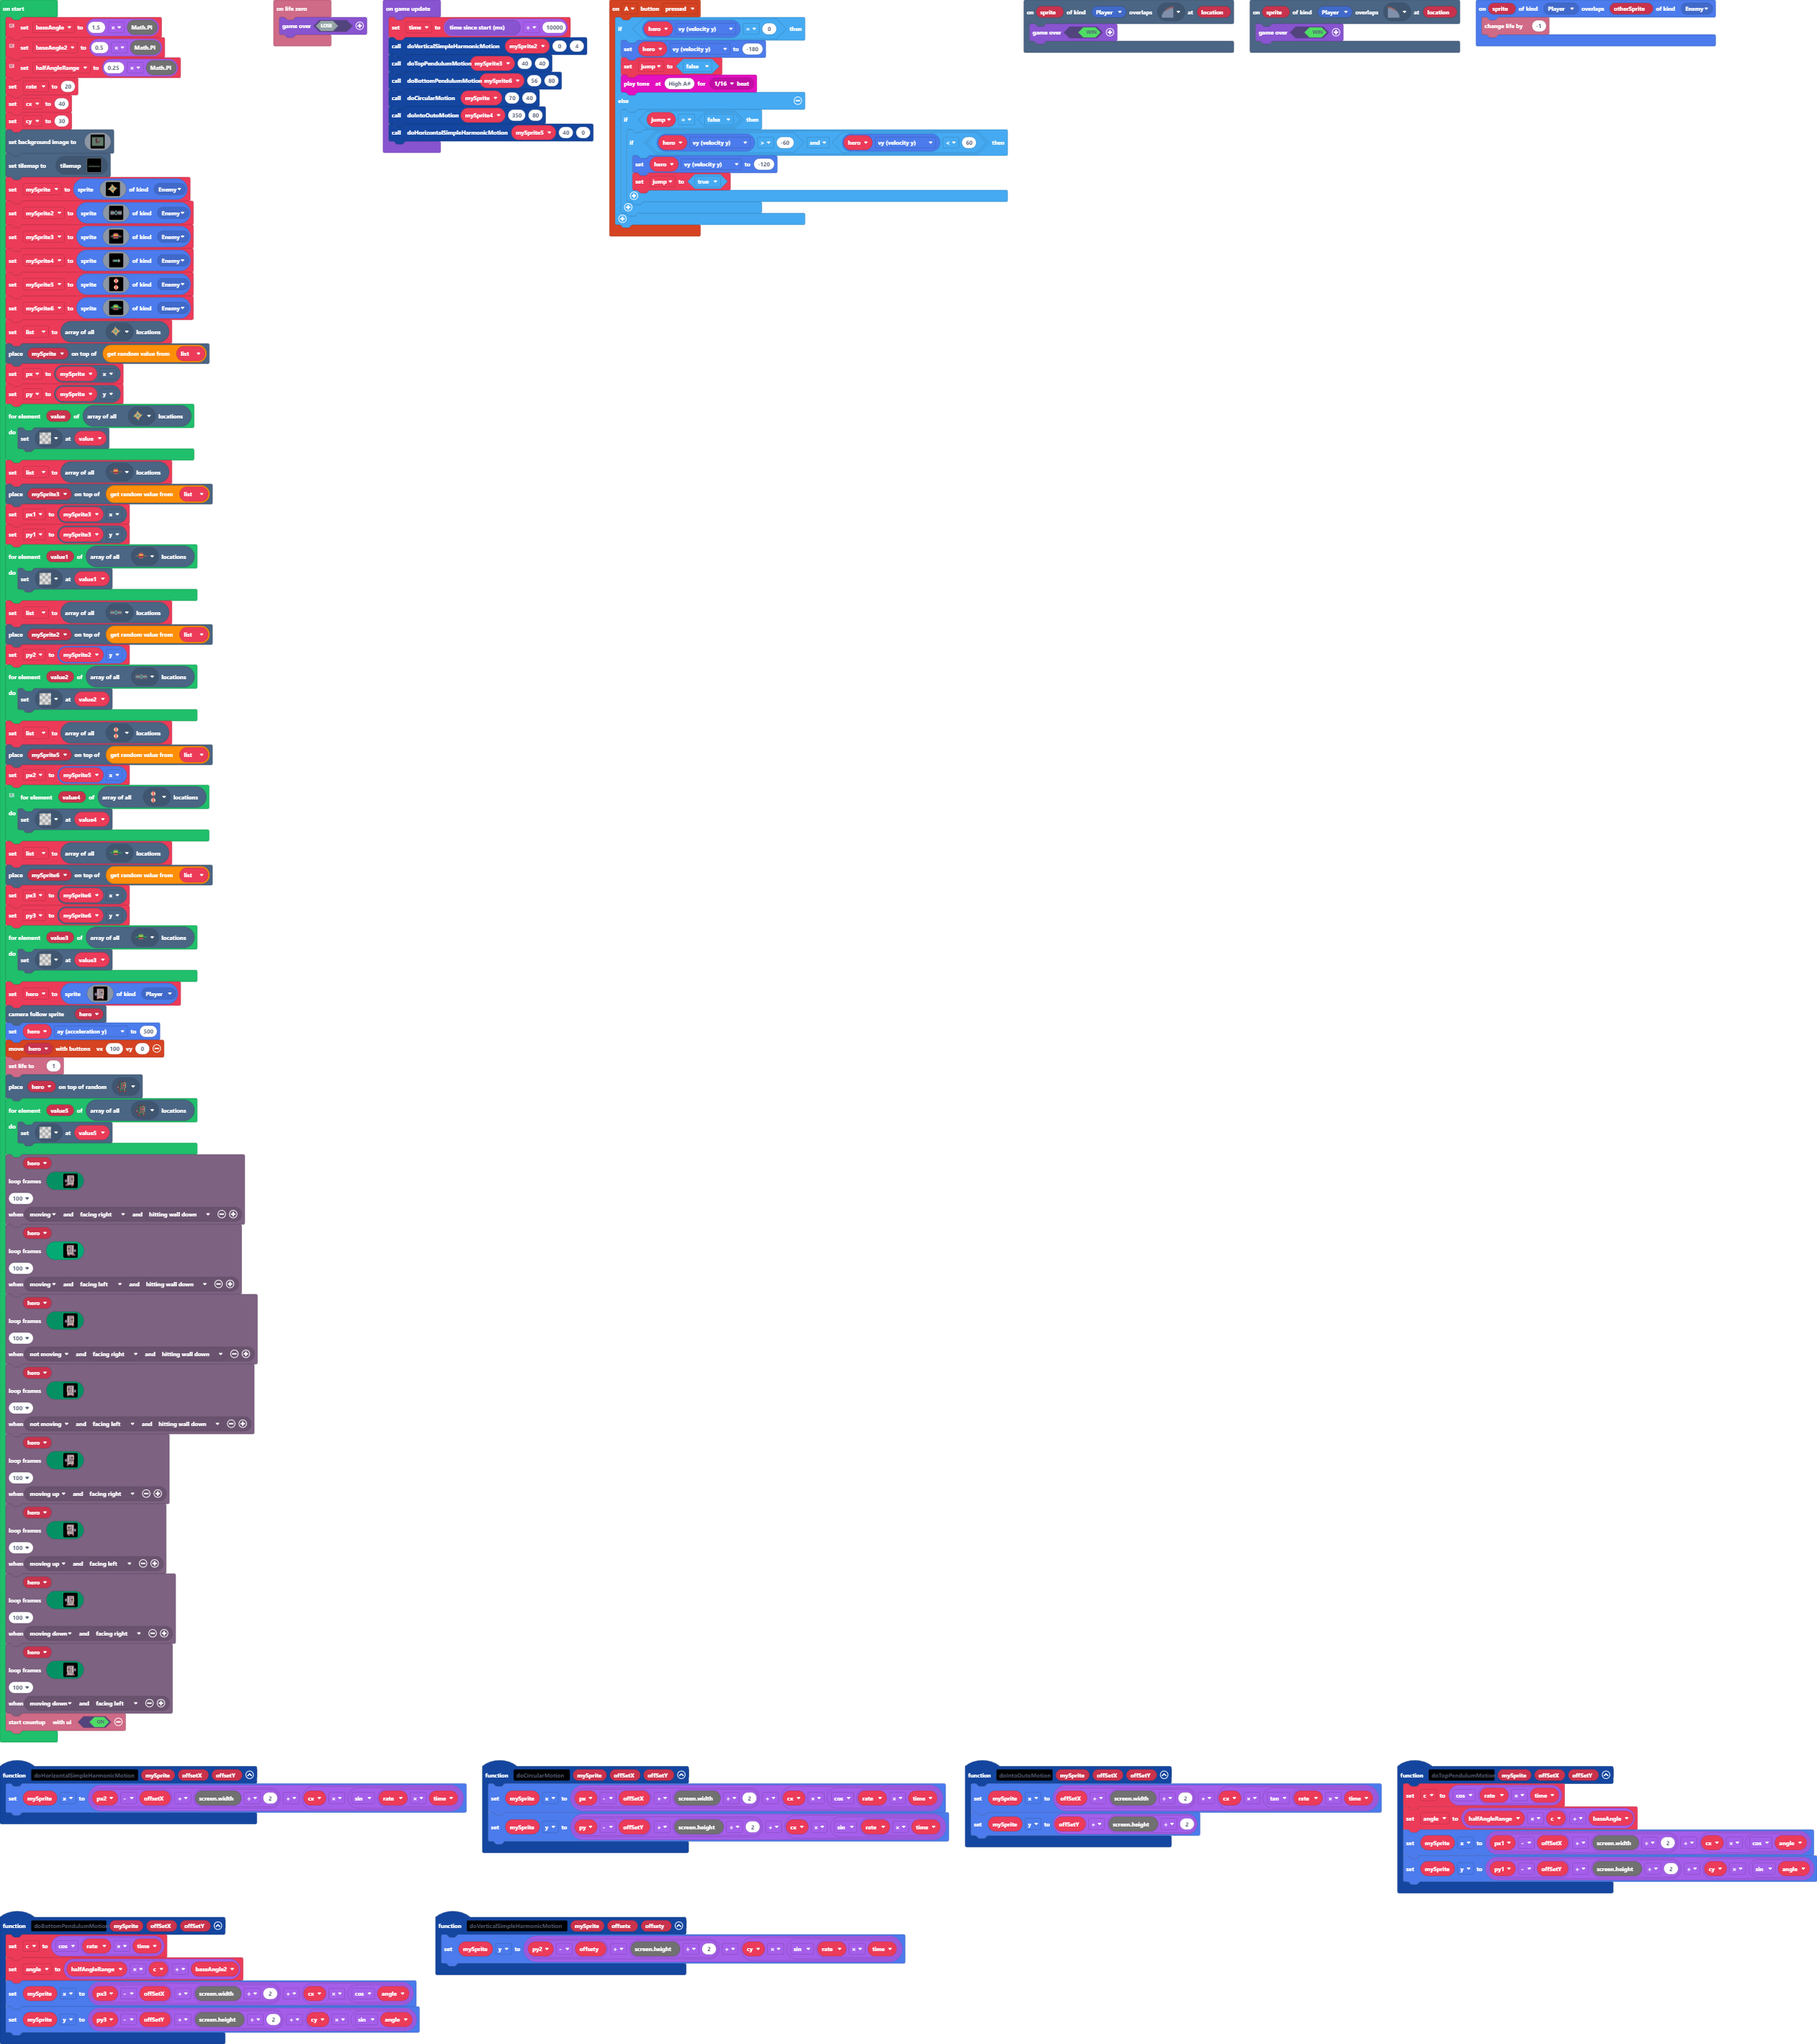
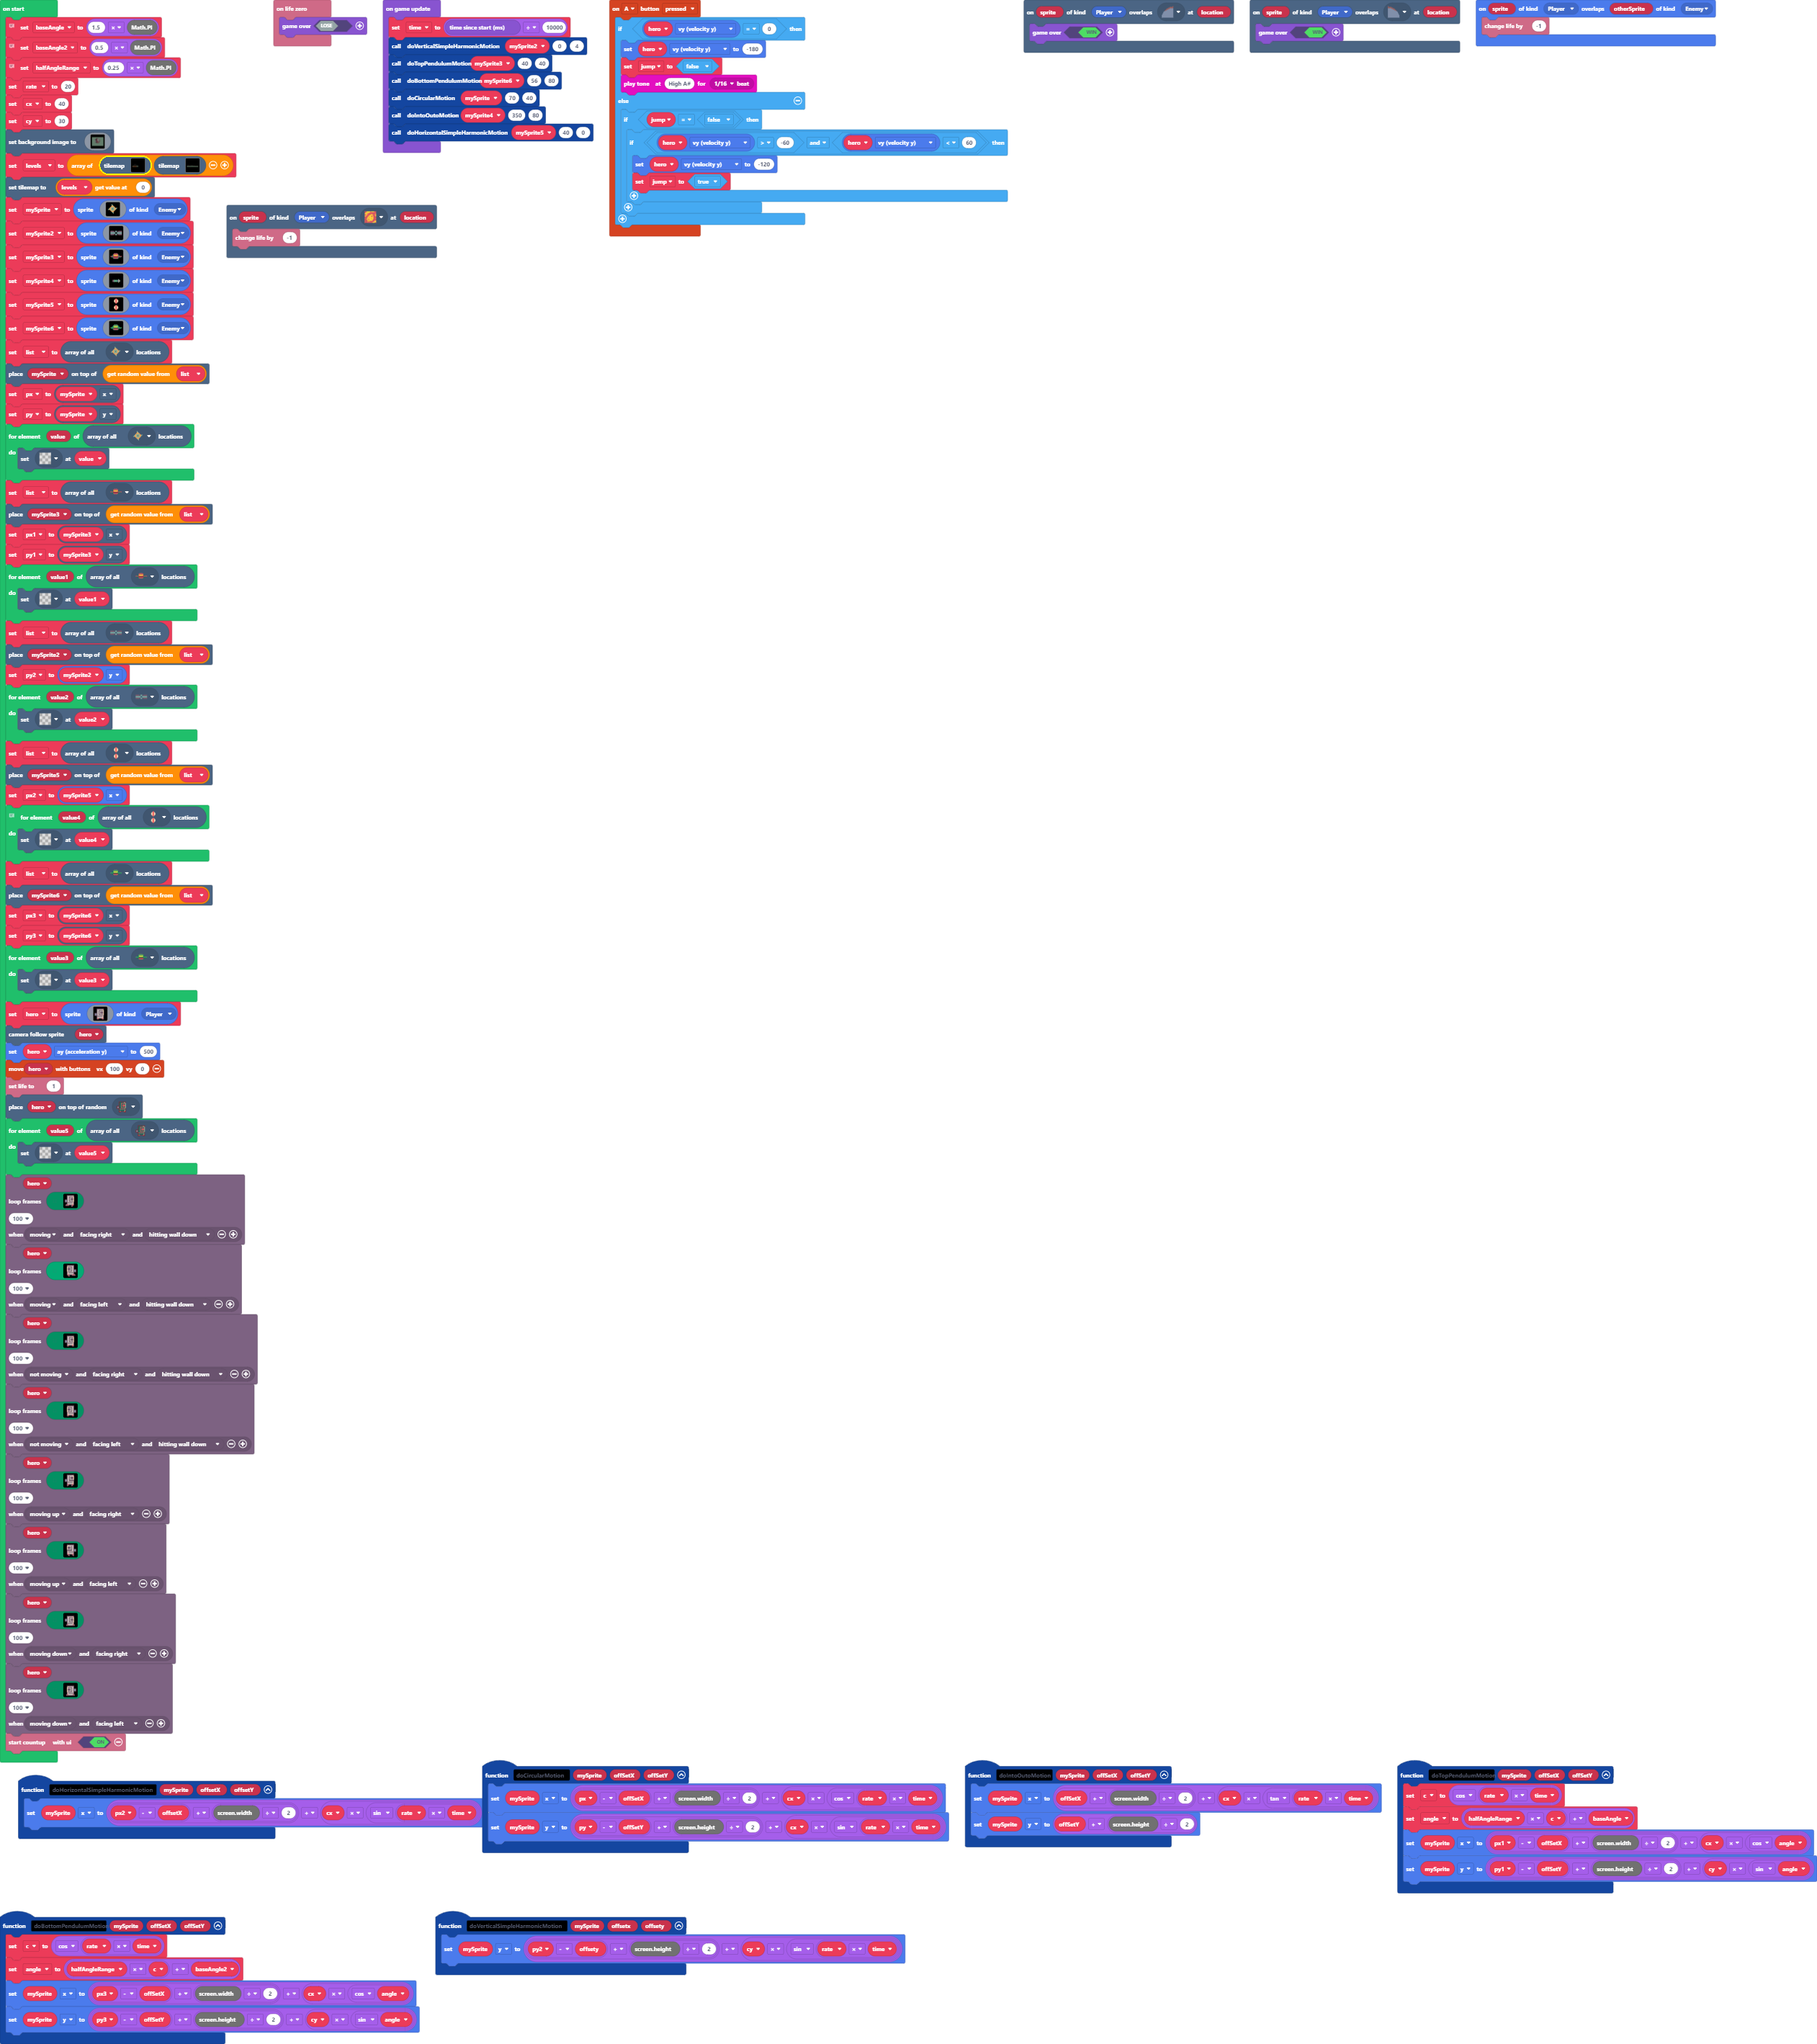
Update main.blocks, main.ts, tilemap.g.jres, tilemap.g.ts

Changed region(s): [[0.0, 0.062, 0.2782, 0.8992], [0.0927, 0.6822, 0.1546, 0.7132], [0.1237, 0.6202, 0.1546, 0.6512]]

diff --git a/tilemap.g.ts b/tilemap.g.ts
@@ -36,8 +36,8 @@ namespace myTiles {
 ................................................................
 ................................................................
 `, [myTiles.transparency16,sprites.builtin.forestTiles1,sprites.builtin.forestTiles5,sprites.builtin.forestTiles9,sprites.builtin.forestTiles13,sprites.builtin.forestTiles2,sprites.builtin.forestTiles3,sprites.builtin.forestTiles7,sprites.builtin.forestTiles11,sprites.builtin.forestTiles15,sprites.builtin.forestTiles10,sprites.builtin.forestTiles14,sprites.builtin.forestTiles6,sprites.castle.tilePath5,sprites.swamp.swampTile6,sprites.swamp.swampTile8,sprites.castle.tilePath8,myTiles.tile1,myTiles.tile2,myTiles.tile3,myTiles.tile4,myTiles.tile6,myTiles.tile5], TileScale.Sixteen);
-            case "level1":
-            case "level1":return tiles.createTilemap(hex`1000100000000000000000000000000000000000000000000000000000000000000000000000000000000000000000000000000000000000000000000000000000000000000000000000000000000000000000000000000000000000000000000000000000000000000000000000000000000000000000000000000000000000000000000000000000000000000000000000000000000000000000000000000000000000000000000000000000000000000000000000000000000000000000000000000000000000000000000000000000000000000000000000000000000000000000000000000000000000000000000000000000000000000000000000000000000000`, img`
+            case "level3":
+            case "level3":return tiles.createTilemap(hex`1000100000000000000000000000000000000000000000000000000000000000000000000000000000000000000000000000000000000000000000000000000000000000000000000000000000000000000000000000000000000000000000000000000000000000000000000000000000000000000000000000000000000000000000000000000000000000000000000000000000000000000000000000000000000000000000000000000000000000000000000000000000000000000000000000000000000000000000000000000000000000000000000000000000000000000000000000000000000000000000000000000000000000000000000000000000000000`, img`
 . . . . . . . . . . . . . . . . 
 . . . . . . . . . . . . . . . . 
 . . . . . . . . . . . . . . . . 
@@ -55,6 +55,101 @@ namespace myTiles {
 . . . . . . . . . . . . . . . . 
 . . . . . . . . . . . . . . . . 
 `, [myTiles.transparency16], TileScale.Sixteen);
+            case "level4":
+            case "level4":return tiles.createTilemap(hex`1000100000000000000000000000000000000000000000000000000000000000000000000000000000000000000000000000000000000000000000000000000000000000000000000000000000000000000000000000000000000000000000000000000000000000000000000000000000000000000000000000000000000000000000000000000000000000000000000000000000000000000000000000000000000000000000000000000000000000000000000000000000000000000000000000000000000000000000000000000000000000000000000000000000000000000000000000000000000000000000000000000000000000000000000000000000000000`, img`
+. . . . . . . . . . . . . . . . 
+. . . . . . . . . . . . . . . . 
+. . . . . . . . . . . . . . . . 
+. . . . . . . . . . . . . . . . 
+. . . . . . . . . . . . . . . . 
+. . . . . . . . . . . . . . . . 
+. . . . . . . . . . . . . . . . 
+. . . . . . . . . . . . . . . . 
+. . . . . . . . . . . . . . . . 
+. . . . . . . . . . . . . . . . 
+. . . . . . . . . . . . . . . . 
+. . . . . . . . . . . . . . . . 
+. . . . . . . . . . . . . . . . 
+. . . . . . . . . . . . . . . . 
+. . . . . . . . . . . . . . . . 
+. . . . . . . . . . . . . . . . 
+`, [myTiles.transparency16], TileScale.Sixteen);
+            case "level5":
+            case "level5":return tiles.createTilemap(hex`1000100000000000000000000000000000000000000000000000000000000000000000000000000000000000000000000000000000000000000000000000000000000000000000000000000000000000000000000000000000000000000000000000000000000000000000000000000000000000000000000000000000000000000000000000000000000000000000000000000000000000000000000000000000000000000000000000000000000000000000000000000000000000000000000000000000000000000000000000000000000000000000000000000000000000000000000000000000000000000000000000000000000000000000000000000000000000`, img`
+. . . . . . . . . . . . . . . . 
+. . . . . . . . . . . . . . . . 
+. . . . . . . . . . . . . . . . 
+. . . . . . . . . . . . . . . . 
+. . . . . . . . . . . . . . . . 
+. . . . . . . . . . . . . . . . 
+. . . . . . . . . . . . . . . . 
+. . . . . . . . . . . . . . . . 
+. . . . . . . . . . . . . . . . 
+. . . . . . . . . . . . . . . . 
+. . . . . . . . . . . . . . . . 
+. . . . . . . . . . . . . . . . 
+. . . . . . . . . . . . . . . . 
+. . . . . . . . . . . . . . . . 
+. . . . . . . . . . . . . . . . 
+. . . . . . . . . . . . . . . . 
+`, [myTiles.transparency16], TileScale.Sixteen);
+            case "level6":
+            case "level6":return tiles.createTilemap(hex`1000100000000000000000000000000000000000000000000000000000000000000000000000000000000000000000000000000000000000000000000000000000000000000000000000000000000000000000000000000000000000000000000000000000000000000000000000000000000000000000000000000000000000000000000000000000000000000000000000000000000000000000000000000000000000000000000000000000000000000000000000000000000000000000000000000000000000000000000000000000000000000000000000000000000000000000000000000000000000000000000000000000000000000000000000000000000000`, img`
+. . . . . . . . . . . . . . . . 
+. . . . . . . . . . . . . . . . 
+. . . . . . . . . . . . . . . . 
+. . . . . . . . . . . . . . . . 
+. . . . . . . . . . . . . . . . 
+. . . . . . . . . . . . . . . . 
+. . . . . . . . . . . . . . . . 
+. . . . . . . . . . . . . . . . 
+. . . . . . . . . . . . . . . . 
+. . . . . . . . . . . . . . . . 
+. . . . . . . . . . . . . . . . 
+. . . . . . . . . . . . . . . . 
+. . . . . . . . . . . . . . . . 
+. . . . . . . . . . . . . . . . 
+. . . . . . . . . . . . . . . . 
+. . . . . . . . . . . . . . . . 
+`, [myTiles.transparency16], TileScale.Sixteen);
+            case "level7":
+            case "level7":return tiles.createTilemap(hex`1000100000000000000000000000000000000000000000000000000000000000000000000000000000000000000000000000000000000000000000000000000000000000000000000000000000000000000000000000000000000000000000000000000000000000000000000000000000000000000000000000000000000000000000000000000000000000000000000000000000000000000000000000000000000000000000000000000000000000000000000000000000000000000000000000000000000000000000000000000000000000000000000000000000000000000000000000000000000000000000000000000000000000000000000000000000000000`, img`
+. . . . . . . . . . . . . . . . 
+. . . . . . . . . . . . . . . . 
+. . . . . . . . . . . . . . . . 
+. . . . . . . . . . . . . . . . 
+. . . . . . . . . . . . . . . . 
+. . . . . . . . . . . . . . . . 
+. . . . . . . . . . . . . . . . 
+. . . . . . . . . . . . . . . . 
+. . . . . . . . . . . . . . . . 
+. . . . . . . . . . . . . . . . 
+. . . . . . . . . . . . . . . . 
+. . . . . . . . . . . . . . . . 
+. . . . . . . . . . . . . . . . 
+. . . . . . . . . . . . . . . . 
+. . . . . . . . . . . . . . . . 
+. . . . . . . . . . . . . . . . 
+`, [myTiles.transparency16], TileScale.Sixteen);
+            case "level1":
[1 lines of base64/hex data omitted]
+.................................22.............................
+.................................22.............................
+.................................22.............................
+.................................22.............................
+.................................22.............................
+.................................22.............................
+.................................22.............................
+.................................22.............................
+...........2..2..2..2............22.............................
+......222.................22.....22.............................
+.................................22.............................
+...22..................2.........22.............................
+.........................22222.2222.............................
+22.......................22222.2222.............................
+22.......................22222.2222.............................
+22.......................22222.2222.............................
+`, [myTiles.transparency16,myTiles.tile1,myTiles.tile2,myTiles.tile3,myTiles.tile5,myTiles.tile6,sprites.builtin.brick,sprites.dungeon.hazardLava0,myTiles.tile4,sprites.swamp.swampTile6,sprites.swamp.swampTile8], TileScale.Sixteen);
         }
         return null;
     })

diff --git a/main.ts b/main.ts
@@ -18,6 +18,9 @@ controller.A.onEvent(ControllerButtonEvent.Pressed, function () {
         }
     }
 })
+scene.onOverlapTile(SpriteKind.Player, sprites.dungeon.hazardLava0, function (sprite, location) {
+    info.changeLifeBy(-1)
+})
 function doTopPendulumMotion (mySprite: Sprite, offSetX: number, offSetY: number) {
     c = Math.cos(rate * time)
     angle = halfAngleRange * c + baseAngle
@@ -200,7 +203,8 @@ scene.setBackgroundImage(img`
     ffffffffffffffffffffffffffffffffffffffffffffffffffffffffffffffffffffffffffffffffffffffffffffffffffffffffffffffffffffffffffffffffffffffffffffffffffffffffffffffff
     ffffffffffffffffffffffffffffffffffffffffffffffffffffffffffffffffffffffffffffffffffffffffffffffffffffffffffffffffffffffffffffffffffffffffffffffffffffffffffffffff
     `)
-tiles.setCurrentTilemap(tilemap`level2`)
+let levels = [tilemap`level1`, tilemap`level2`]
+tiles.setCurrentTilemap(levels[0])
 let mySprite = sprites.create(img`
     . . . . . . . . . . . . . . . . 
     . . . . . . f . . . . . . . . . 
